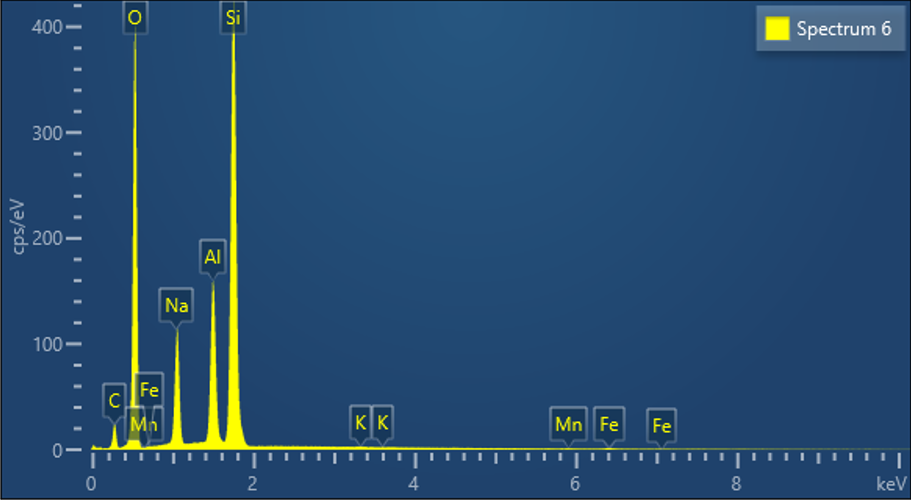
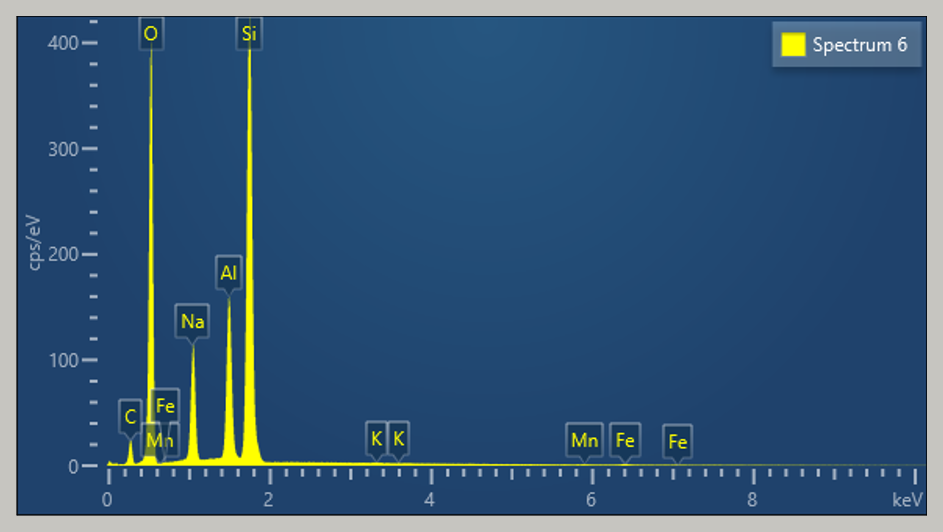
Added the last images and changed border + little bug fix

Changed region(s): [[0.0, 0.0, 1.0, 1.0]]

diff --git a/frontend/src/scenes/Stage2.ts b/frontend/src/scenes/Stage2.ts
@@ -560,6 +560,13 @@ class Stage2 extends Phaser.Scene {
 		}
 
 		if (turret.mode === "locked") {
+			// The second mirror can only be unlocked once the beam (redirected by the first
+			// mirror) is actually hitting it — otherwise the player could solve it out of
+			// order and finish the level without ever having interacted with the first one.
+			if (index === 1 && !turret.hitByBeam) {
+				return;
+			}
+
 			this.startShooter(index);
 			return;
 		}
@@ -716,7 +723,7 @@ class Stage2 extends Phaser.Scene {
 							{ message: this.i18n.eds_silicate_3_narrator, preset: "dark" }
 						]);
 					} else if (turretIndex === 1) {
-						await this.showImageReveal("stage2-xrd");
+						await this.showImageReveal("stage2-xrd", 900);
 					}
 				} finally {
 					this.player.isMovementAllowed = true;
@@ -1008,26 +1015,12 @@ class Stage2 extends Phaser.Scene {
 	// (not a fixed pixel size) so the apparent on-screen size stays consistent regardless of the
 	// current zoom level — the puzzle's 5.0 zoom for the turret reveals, or the finale's
 	// zoomed-out value for later calls.
-	private showImageReveal(textureKey: string): Promise<void> {
+	private showImageReveal(textureKey: string, desiredScreenWidth: number = 640): Promise<void> {
 		const camera = this.cameras.main;
 		const naturalWidth = this.textures.get(textureKey).getSourceImage().width;
 		const naturalHeight = this.textures.get(textureKey).getSourceImage().height;
-		const desiredScreenWidth = 640;
 		const worldWidth = desiredScreenWidth / camera.zoom;
 		const worldHeight = worldWidth * (naturalHeight / naturalWidth);
-
-		const borderWidth = 24;
-		const border = this.add.rectangle(
-			camera.centerX,
-			camera.centerY,
-			worldWidth + borderWidth * 2,
-			worldHeight + borderWidth * 2,
-			0xffffff
-		);
-		border.setScrollFactor(0);
-		border.setDepth(59);
-		border.setScale(1.3);
-		border.setAlpha(0);
 
 		const image = this.add.image(camera.centerX, camera.centerY, textureKey);
 		image.setScrollFactor(0);
@@ -1041,7 +1034,7 @@ class Stage2 extends Phaser.Scene {
 
 		return new Promise<void>(resolve => {
 			this.tweens.add({
-				targets: [image, border],
+				targets: image,
 				alpha: 1,
 				scaleX: targetScaleX,
 				scaleY: targetScaleY,
@@ -1050,13 +1043,12 @@ class Stage2 extends Phaser.Scene {
 				onComplete: () => {
 					this.time.delayedCall(1600, () => {
 						this.tweens.add({
-							targets: [image, border],
+							targets: image,
 							alpha: 0,
 							duration: 300,
 							ease: "Power2.easeIn",
 							onComplete: () => {
 								image.destroy();
-								border.destroy();
 								resolve();
 							}
 						});

diff --git a/frontend/src/scenes/Stage3.ts b/frontend/src/scenes/Stage3.ts
@@ -607,19 +607,6 @@ class Stage3 extends Phaser.Scene {
 		const worldWidth = desiredScreenWidth / camera.zoom;
 		const worldHeight = worldWidth * (naturalHeight / naturalWidth);
 
-		const borderWidth = 24;
-		const border = this.add.rectangle(
-			camera.centerX,
-			camera.centerY,
-			worldWidth + borderWidth * 2,
-			worldHeight + borderWidth * 2,
-			0xffffff
-		);
-		border.setScrollFactor(0);
-		border.setDepth(59);
-		border.setScale(1.3);
-		border.setAlpha(0);
-
 		const image = this.add.image(camera.centerX, camera.centerY, textureKey);
 		image.setScrollFactor(0);
 		image.setDepth(60);
@@ -632,7 +619,7 @@ class Stage3 extends Phaser.Scene {
 
 		return new Promise<void>(resolve => {
 			this.tweens.add({
-				targets: [image, border],
+				targets: image,
 				alpha: 1,
 				scaleX: targetScaleX,
 				scaleY: targetScaleY,
@@ -641,13 +628,12 @@ class Stage3 extends Phaser.Scene {
 				onComplete: () => {
 					this.time.delayedCall(1600, () => {
 						this.tweens.add({
-							targets: [image, border],
+							targets: image,
 							alpha: 0,
 							duration: 300,
 							ease: "Power2.easeIn",
 							onComplete: () => {
 								image.destroy();
-								border.destroy();
 								resolve();
 							}
 						});
